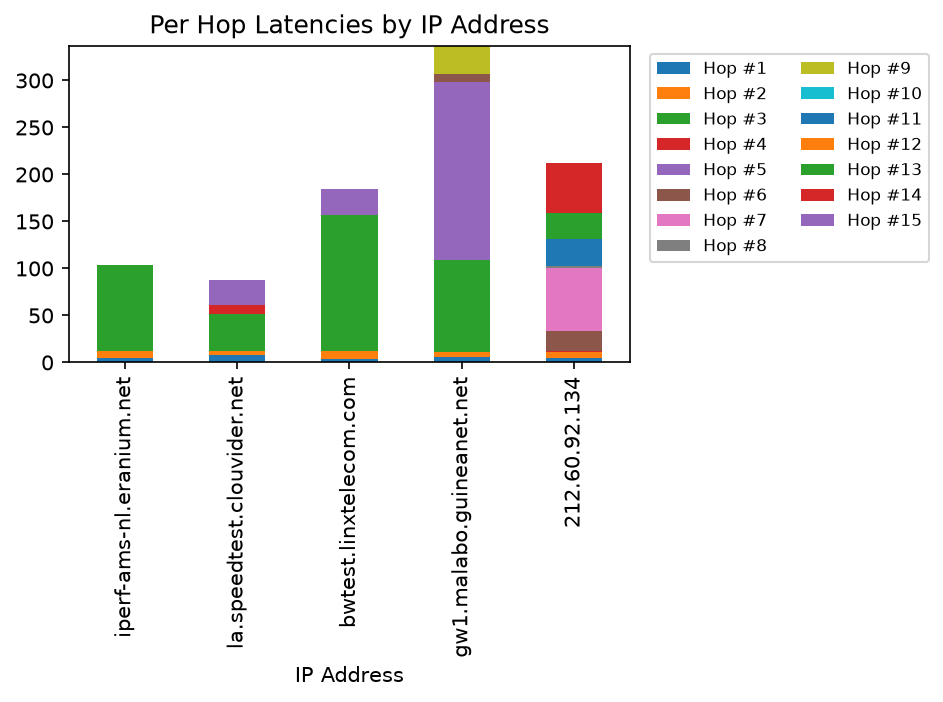
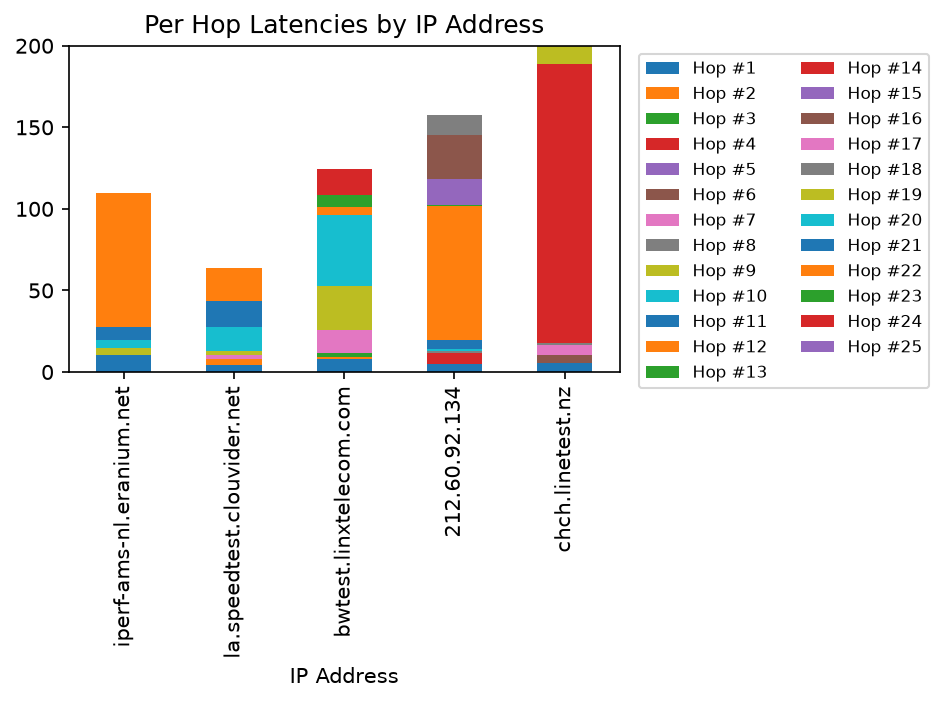
fix scatter plot part 2

diff --git a/part_2.py b/part_2.py
@@ -20,7 +20,6 @@ def part_2(df, num_rows=5, max_hops=30):
 
         # for part (b)
         latencies = []
-        hop_ips = []
 
         cur_hop = 1
         for line in lines:
@@ -40,7 +39,6 @@ def part_2(df, num_rows=5, max_hops=30):
 
             for latency_str in items:
                 if latency_str.count(".") > 1:
-                    hop_ips.append(latency_str)
                     continue
 
                 # skip anything that isn't a latency value
@@ -57,19 +55,20 @@ def part_2(df, num_rows=5, max_hops=30):
         # for part (c)
         num_hops = cur_hop
 
-        if num_hops > max_hops:
+        if num_hops > max_hops or not avg_latencies:
             print("Status: Non-responsive")
             print()
             continue
+
+        final_latency = avg_latencies[-1]
 
         # calculate latency diff between each hop
         per_hop_latencies = []
         prev = 0.0
         for lat in avg_latencies:
-            per_hop_latencies.append(max(0.0, lat - prev))
-            prev = max(prev, lat)
-
-        final_latency = avg_latencies[-1]
+            total_lat = min(final_latency, max(prev, lat))
+            per_hop_latencies.append(total_lat - prev)
+            prev = total_lat
 
         mapping[row["IP/HOST"]] = {}
         mapping[row["IP/HOST"]]["avg_latencies"] = avg_latencies
